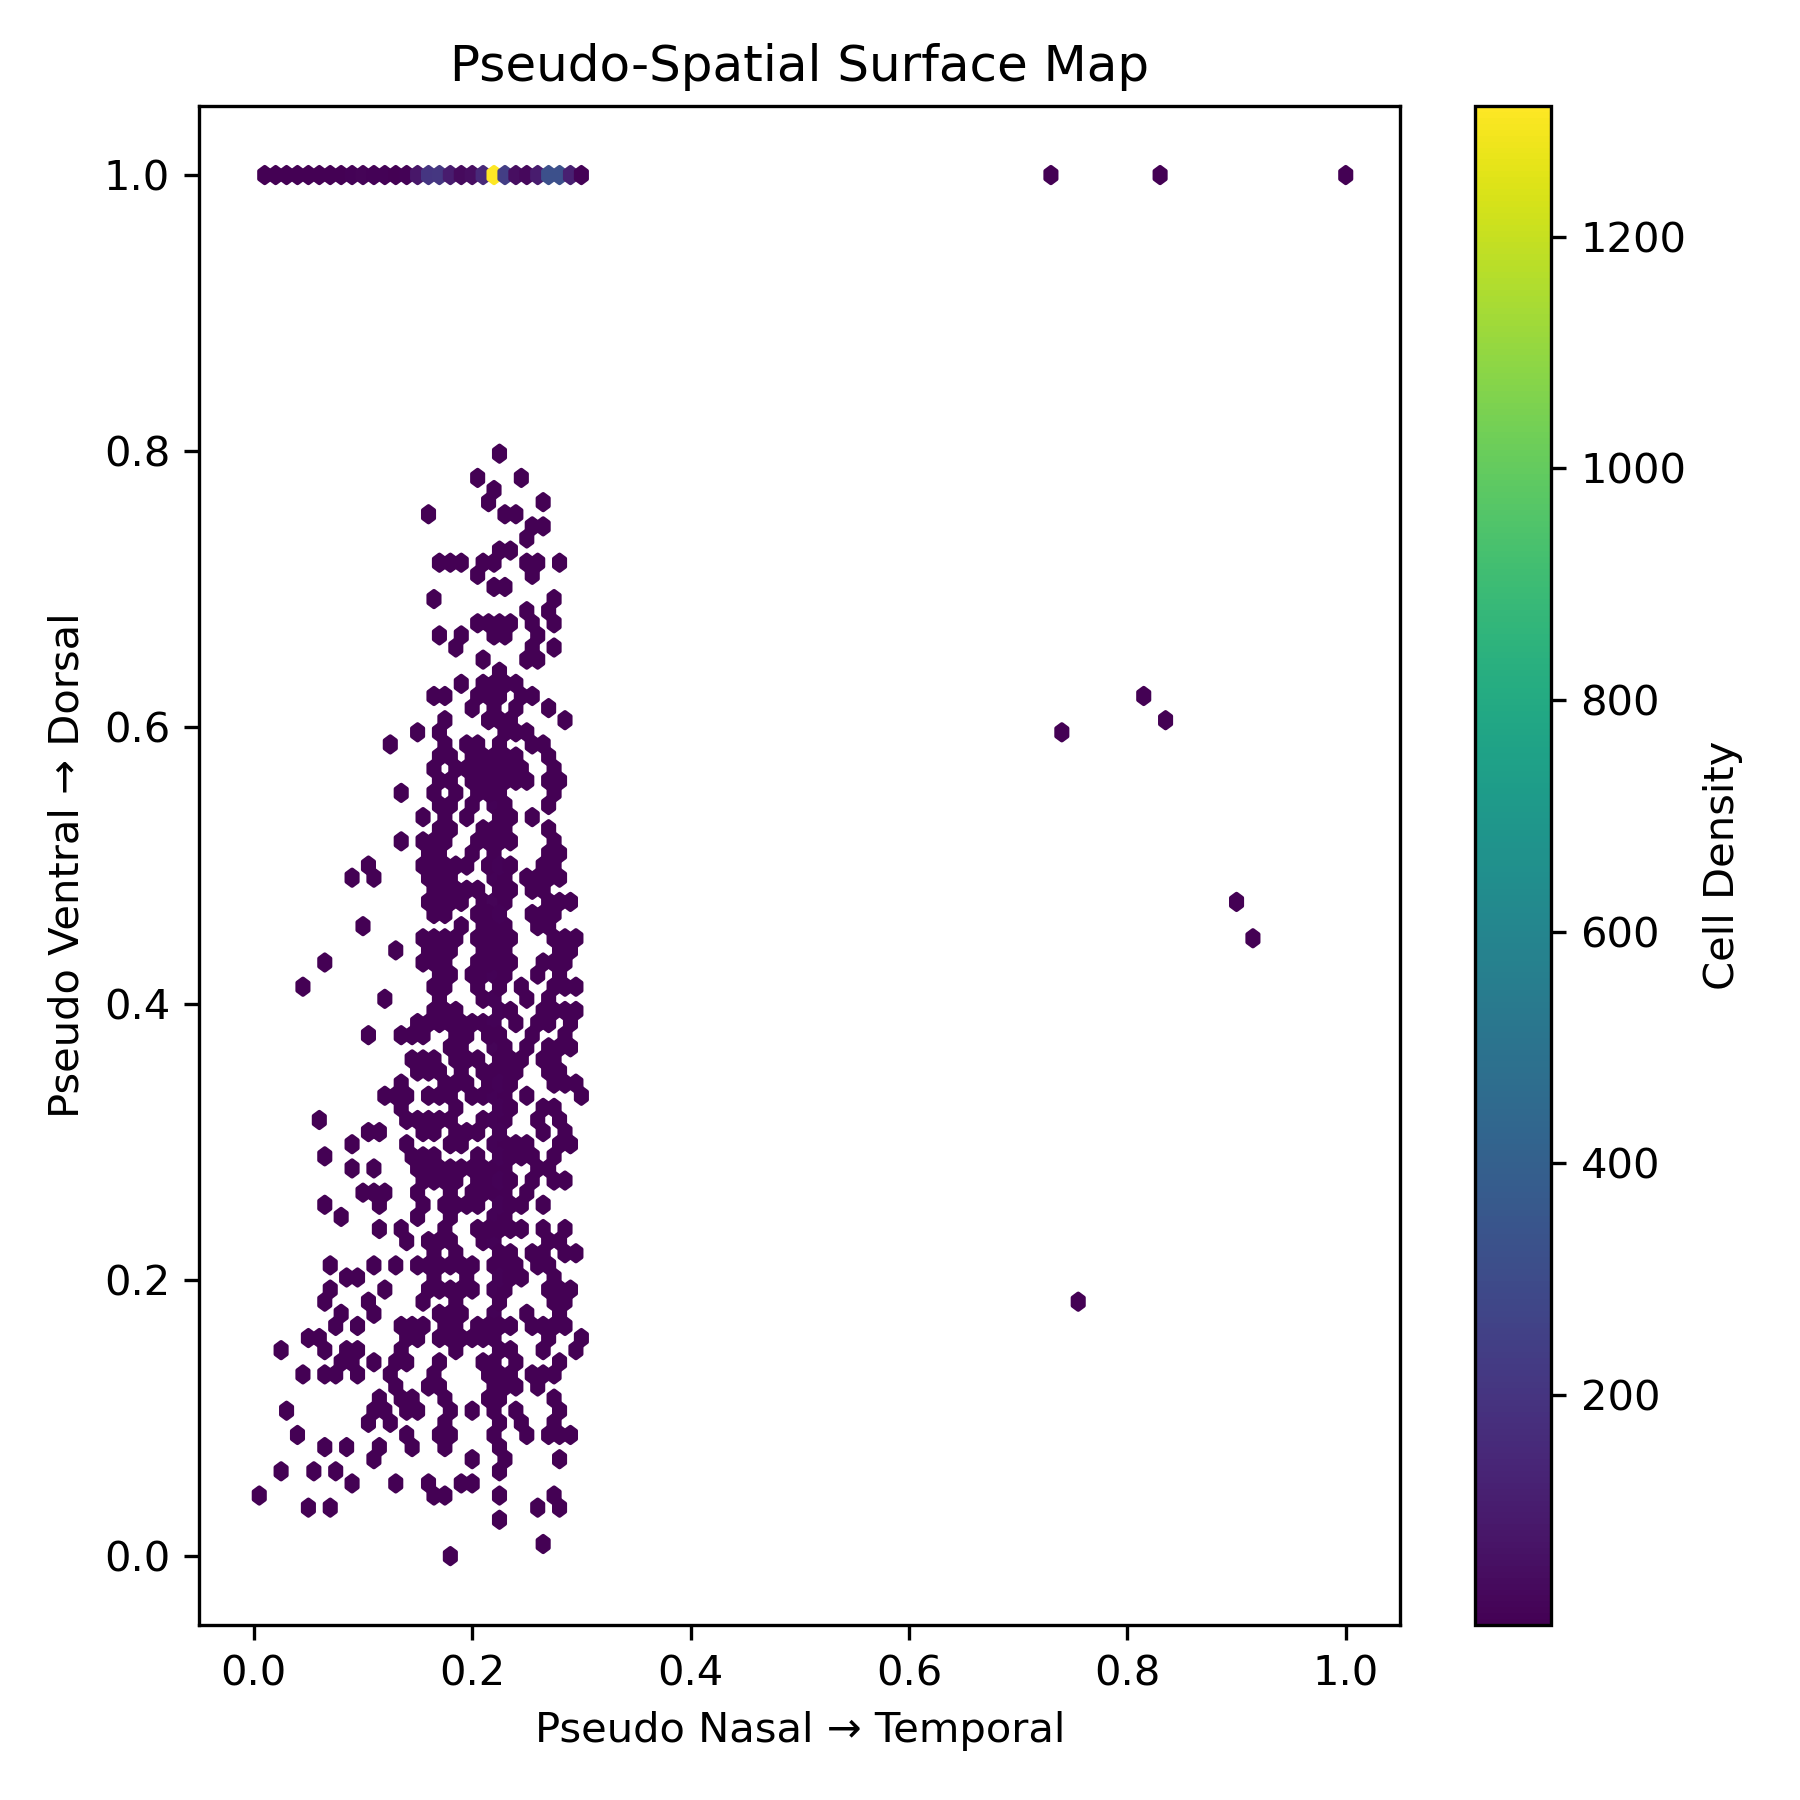
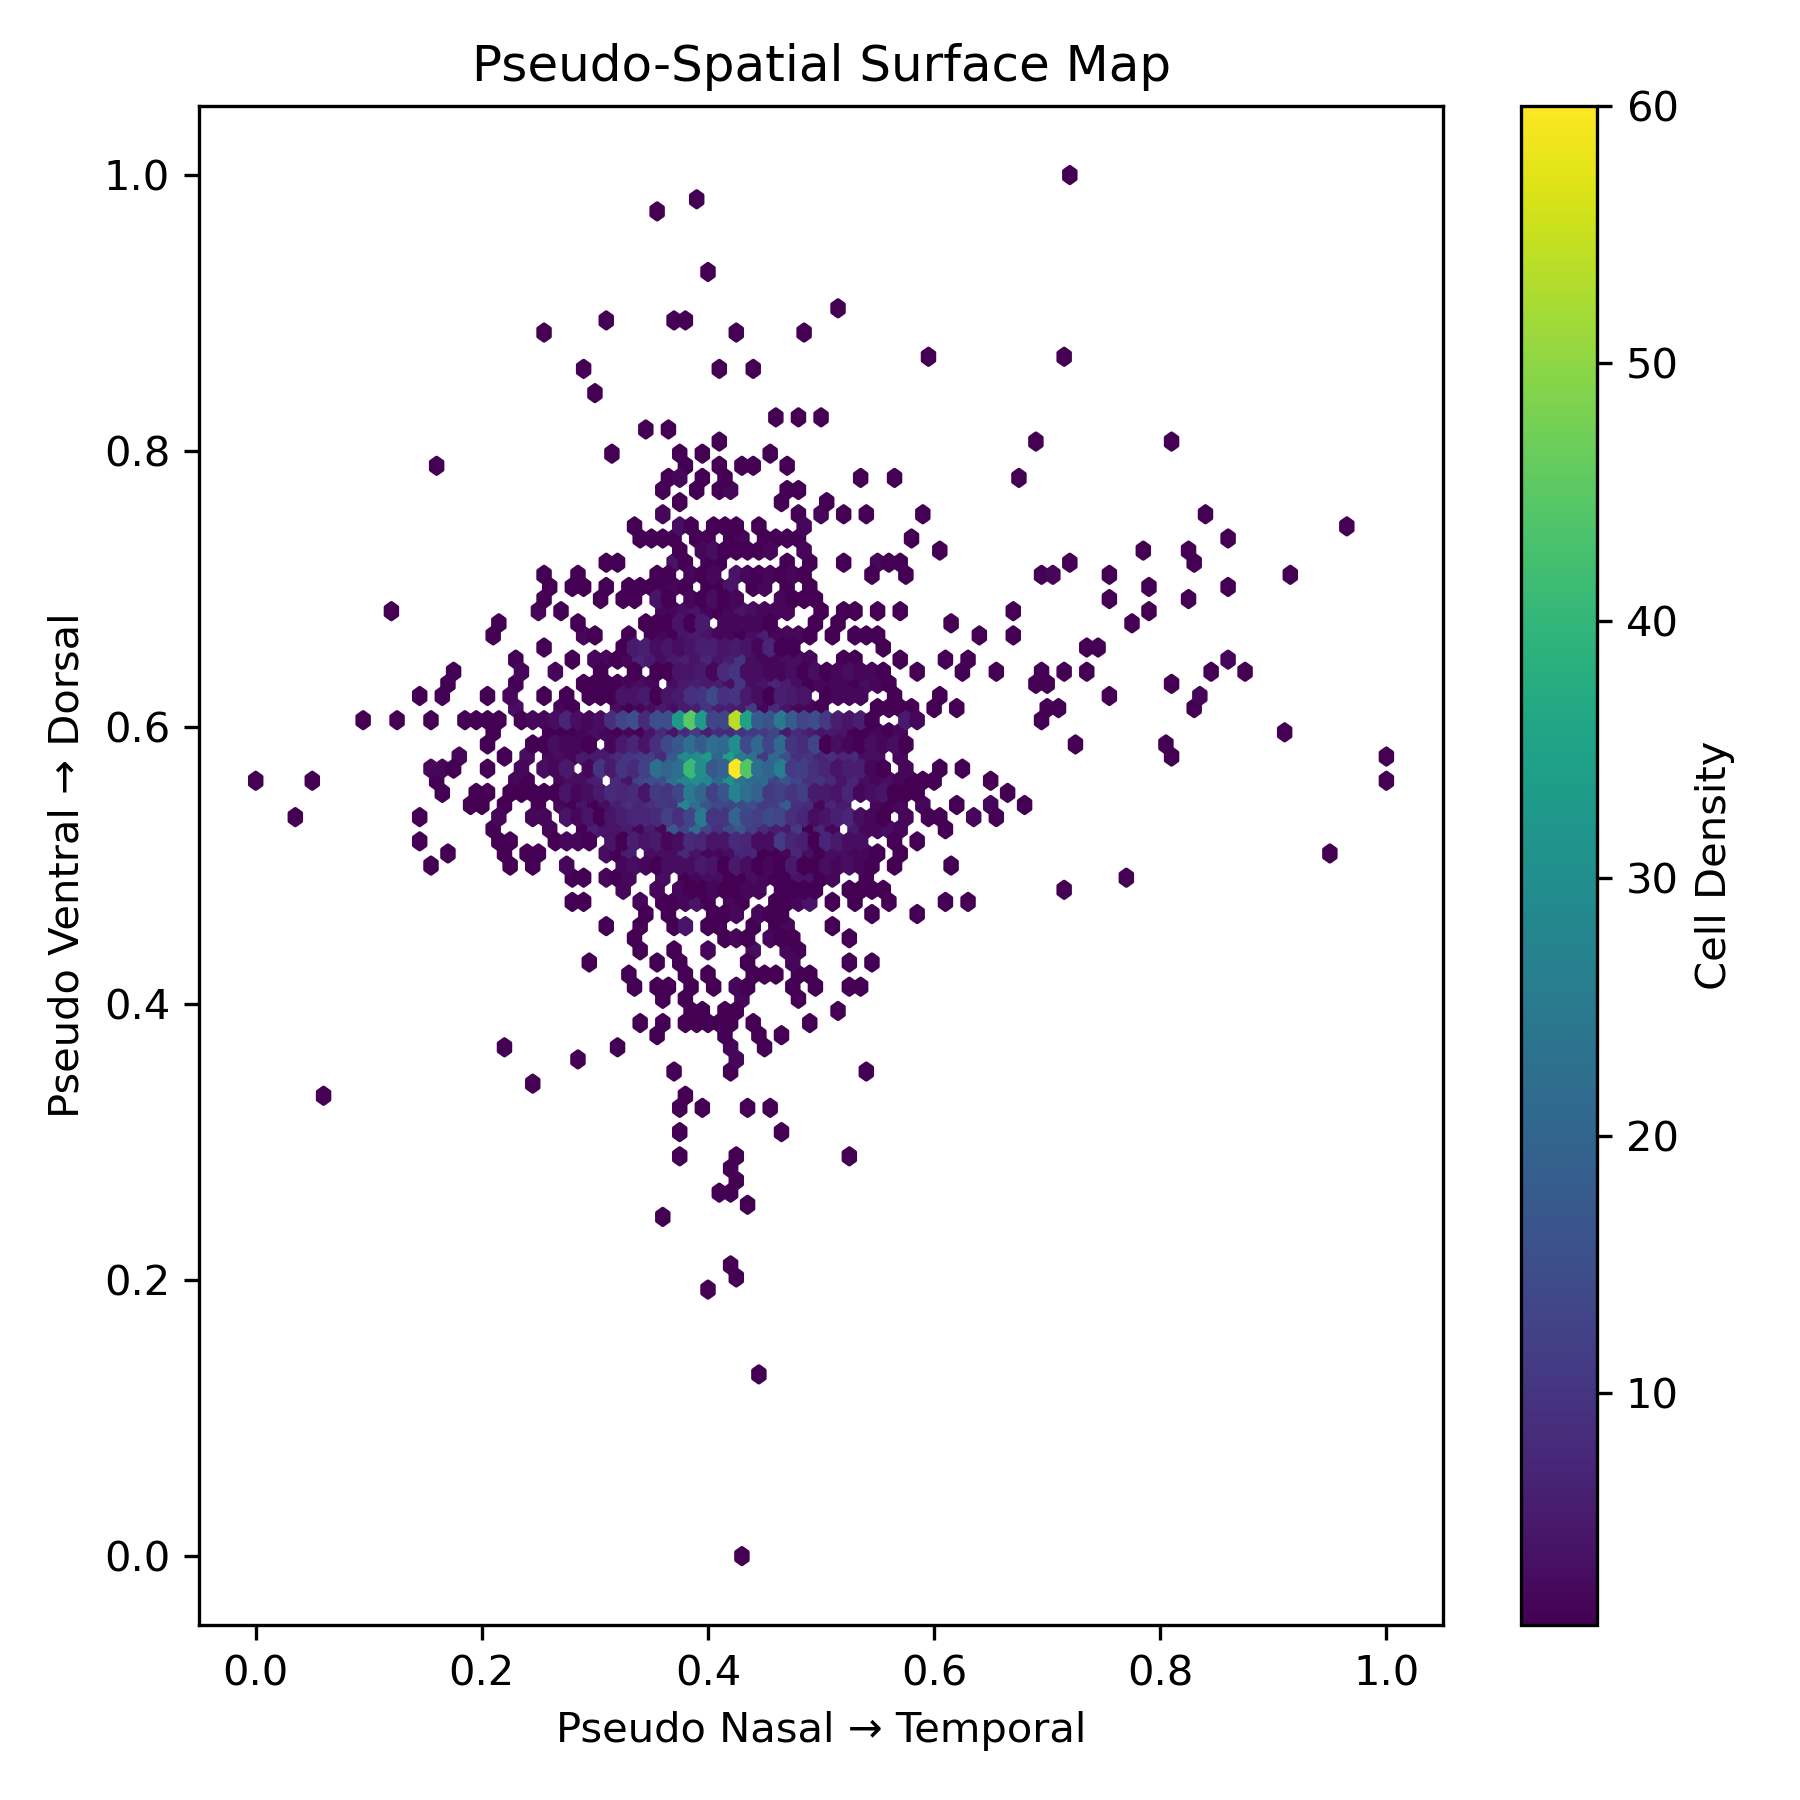
update surface spatial

diff --git a/README.md b/README.md
@@ -761,7 +761,7 @@ Overall, this pattern suggests:
 
 ## Pseudo-Spatial Surface Map Using Marker Genes
 
-![](figures/pseudo_surface_RGC_Spatial.png?v=1) 
+![](figures/pseudo_surface_RGC_Spatial.png?v=2) 
 
 This plot shows a **pseudo-spatial distribution of cells** using known marker genes for specific anatomical axes.  
 
@@ -773,6 +773,12 @@ Its purpose is to:
 
 > Note: This is an **inferred pseudo-spatial map** based on gene expression patterns; it does not represent actual measured cell positions.
 
+##### Used the following spatial Markers
+
+  --nasal_genes Rbpms Pou4f1 neurolin brn3b isl1 atoh7 foxg1a dmbx1 lhx2 ebf2 eomesa barhl2 
+  --temporal_genes Pou4f2 Thy1 ephb4a ephb4b cox1 cyp26a1 epha4b nr2f2 nr2f6b bmp4 
+  --ventral_genes Tubb3 Nefl barhl1a cxcr4b vsx2 pitx2 bmp7 shh ptc1 gli1 vax2 tbx5 
+  --dorsal_genes Sncg Gap43 epha7a epha7b wnt2ba wnt4a lhx9 nr2e1 tcf7l2 pax6a pax6b
 
 #### What the Plot Shows
 
